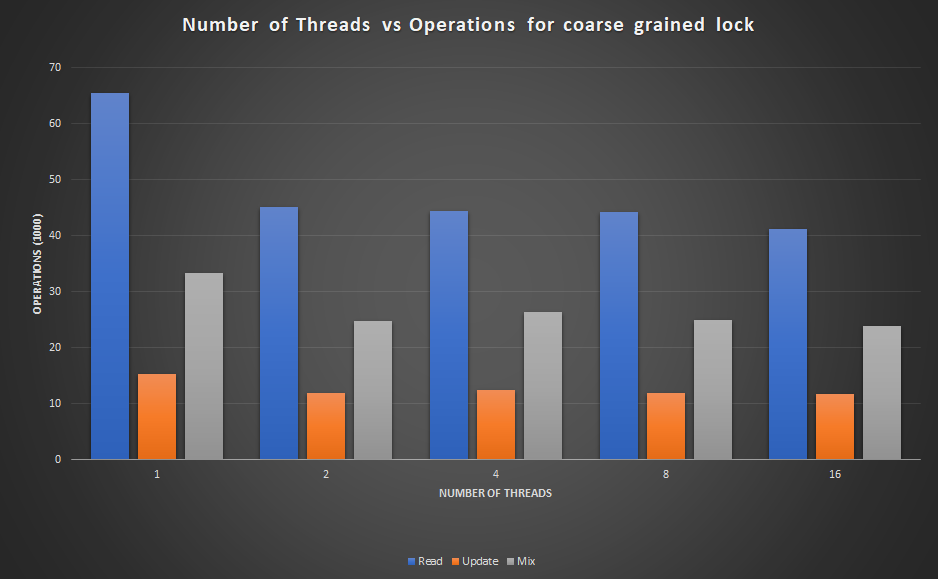
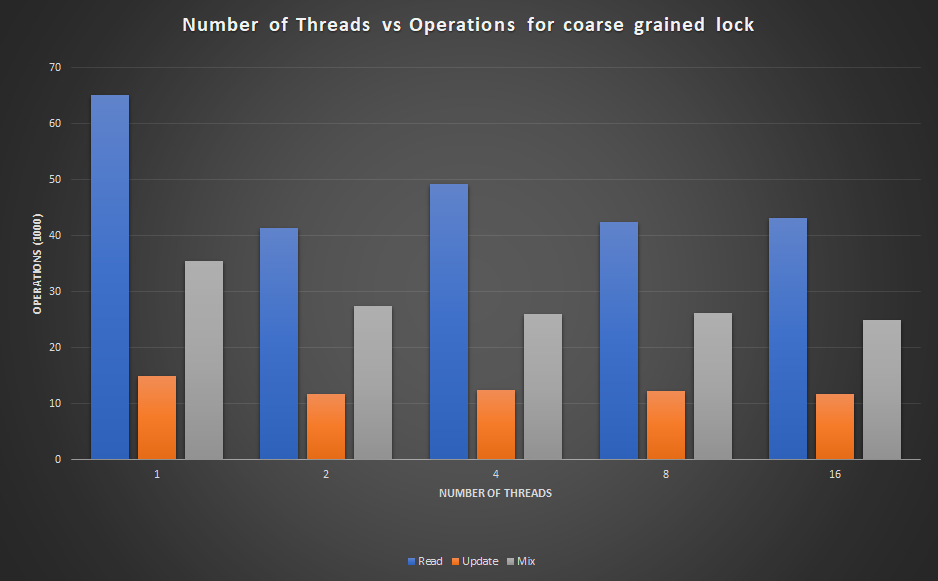
Correct implementation this time.

diff --git a/Exercises/Assignment2/Q4/coarse-grained/sorted_list.hpp b/Exercises/Assignment2/Q4/coarse-grained/sorted_list.hpp
@@ -1,6 +1,9 @@
 #ifndef lacpp_sorted_list_hpp
 #define lacpp_sorted_list_hpp lacpp_sorted_list_hpp
 
+#include <thread>
+#include <mutex>
+
 /* a sorted list implementation by David Klaftenegger, 2015
  * please report bugs or suggest improvements to david.klaftenegger@it.uu.se
  */
@@ -15,6 +18,7 @@ struct node {
 /* non-concurrent sorted singly-linked list */
 template<typename T>
 class sorted_list {
+	std::mutex li;
 	node<T>* first = nullptr;
 
 	public:
@@ -40,6 +44,7 @@ class sorted_list {
 		}
 		/* insert v into the list */
 		void insert(T v) {
+			li.lock();
 			/* first find position */
 			node<T>* pred = nullptr;
 			node<T>* succ = first;
@@ -59,9 +64,11 @@ class sorted_list {
 			} else {
 				pred->next = current;
 			}
+			li.unlock();
 		}
 
 		void remove(T v) {
+			li.lock();
 			/* first find position */
 			node<T>* pred = nullptr;
 			node<T>* current = first;
@@ -71,6 +78,7 @@ class sorted_list {
 			}
 			if(current == nullptr || current->value != v) {
 				/* v not found */
+				li.unlock();
 				return;
 			}
 			/* remove current */
@@ -80,10 +88,12 @@ class sorted_list {
 				pred->next = current->next;
 			}
 			delete current;
+			li.unlock();
 		}
 
 		/* count elements with value v in the list */
 		std::size_t count(T v) {
+			li.lock();
 			std::size_t cnt = 0;
 			/* first go to value v */
 			node<T>* current = first;
@@ -95,6 +105,7 @@ class sorted_list {
 				cnt++;
 				current = current->next;
 			}
+			li.unlock();
 			return cnt;
 		}
 };

diff --git a/Exercises/Assignment2/Q4/coarse-grained/benchmark_example.cpp b/Exercises/Assignment2/Q4/coarse-grained/benchmark_example.cpp
@@ -3,12 +3,9 @@
 #include <random>
 #include <sstream>
 #include <string>
-#include <mutex>
 
 #include "benchmark.hpp"
 #include "sorted_list.hpp"
-
-std::mutex lock;
 
 static const int DATA_VALUE_RANGE_MIN = 0;
 static const int DATA_VALUE_RANGE_MAX = 256;
@@ -17,9 +14,7 @@ static const int DATA_PREFILL = 512;
 template<typename List>
 void read(List& l, int random) {
 	/* read operations: 100% count */
-	lock.lock();
 	l.count(random % DATA_VALUE_RANGE_MAX);
-	lock.unlock();
 }
 
 template<typename List>
@@ -27,13 +22,9 @@ void update(List& l, int random) {
 	/* update operations: 50% insert, 50% remove */
 	auto choice = (random % (2*DATA_VALUE_RANGE_MAX))/DATA_VALUE_RANGE_MAX;
 	if(choice == 0) {
-		lock.lock();
 		l.insert(random % DATA_VALUE_RANGE_MAX);
-		lock.unlock();
 	} else {
-		lock.lock();
 		l.remove(random % DATA_VALUE_RANGE_MAX);
-		lock.unlock();
 	}
 }
 
@@ -42,17 +33,11 @@ void mixed(List& l, int random) {
 	/* mixed operations: 6.25% update, 93.75% count */
 	auto choice = (random % (32*DATA_VALUE_RANGE_MAX))/DATA_VALUE_RANGE_MAX;
 	if(choice == 0) {
-		lock.lock();
 		l.insert(random % DATA_VALUE_RANGE_MAX);
-		lock.unlock();
 	} else if(choice == 1) {
-		lock.lock();
 		l.remove(random % DATA_VALUE_RANGE_MAX);
-		lock.unlock();
 	} else {
-		lock.lock();
 		l.count(random % DATA_VALUE_RANGE_MAX);
-		lock.unlock();
 	}
 }
 
